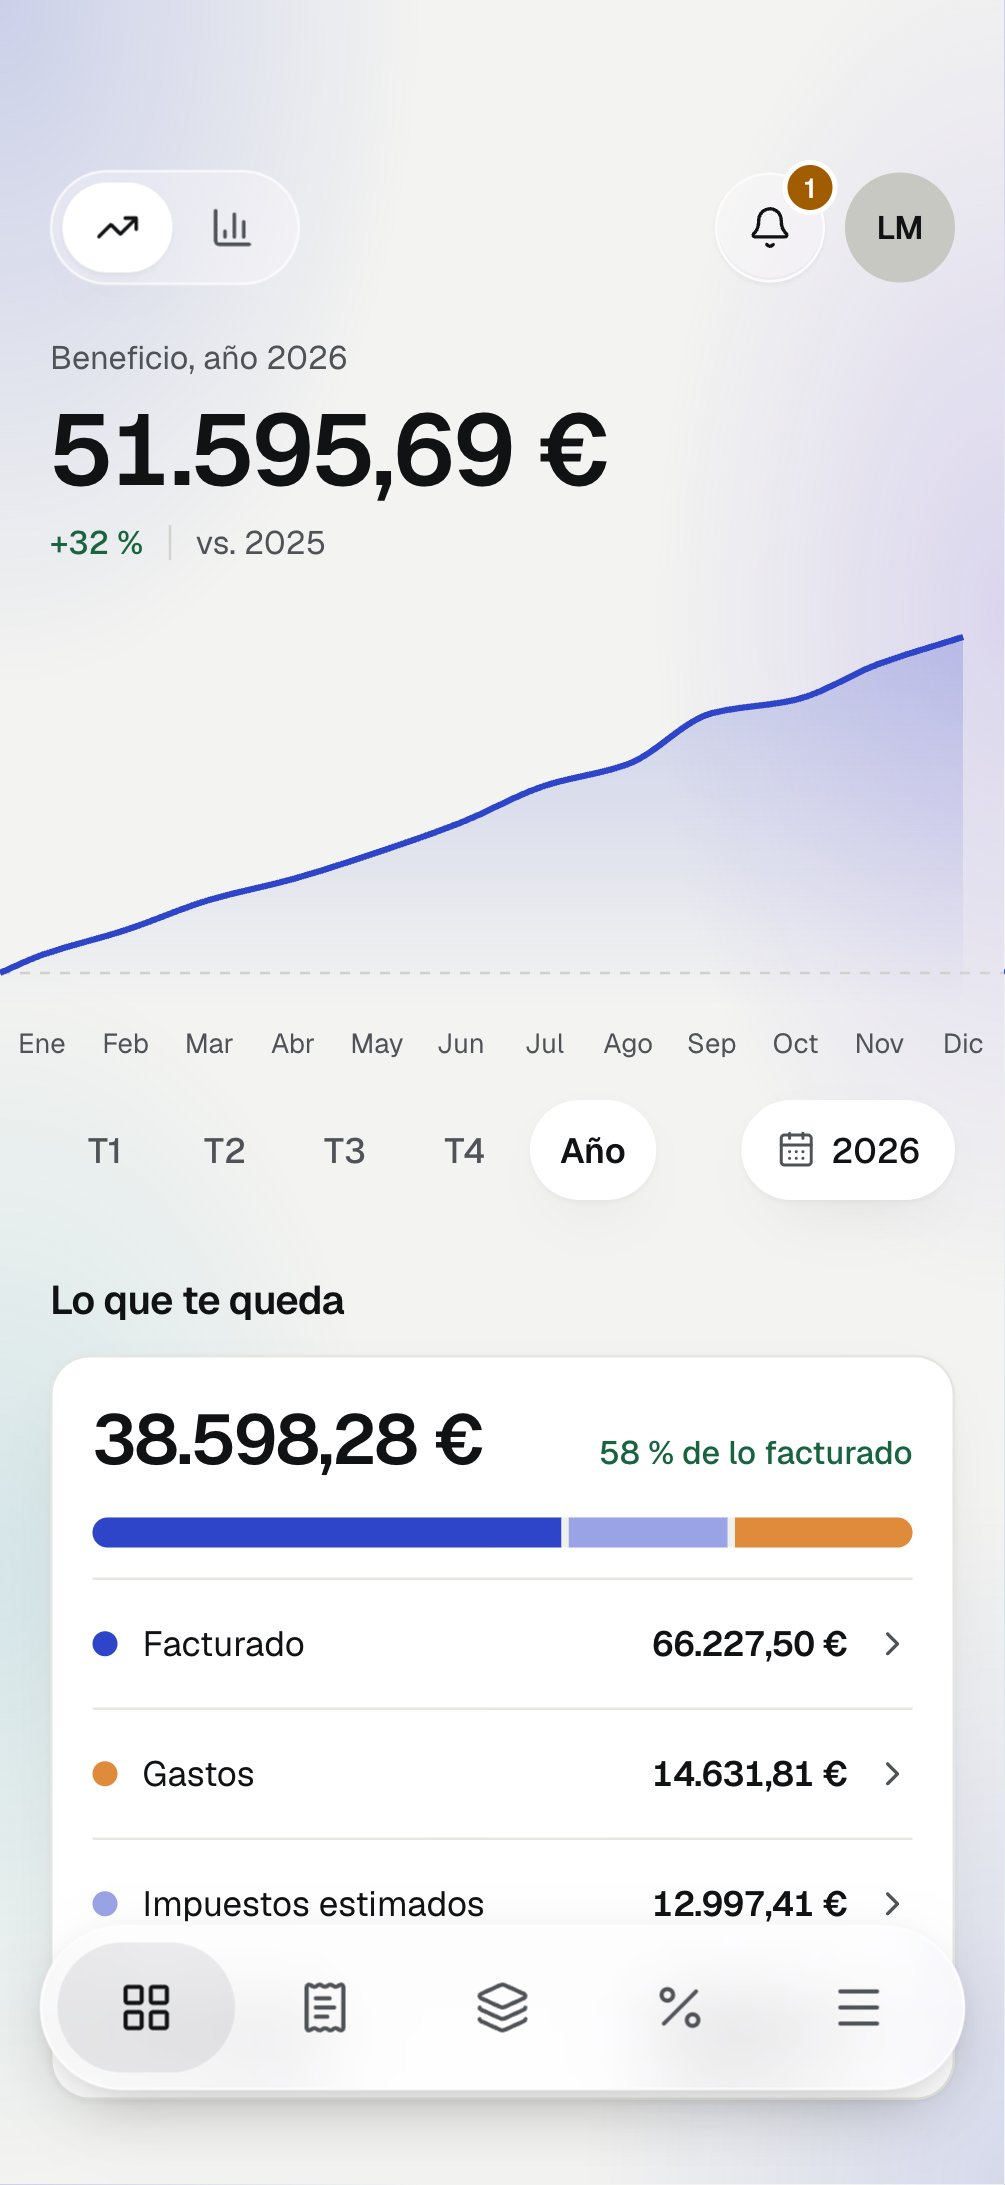
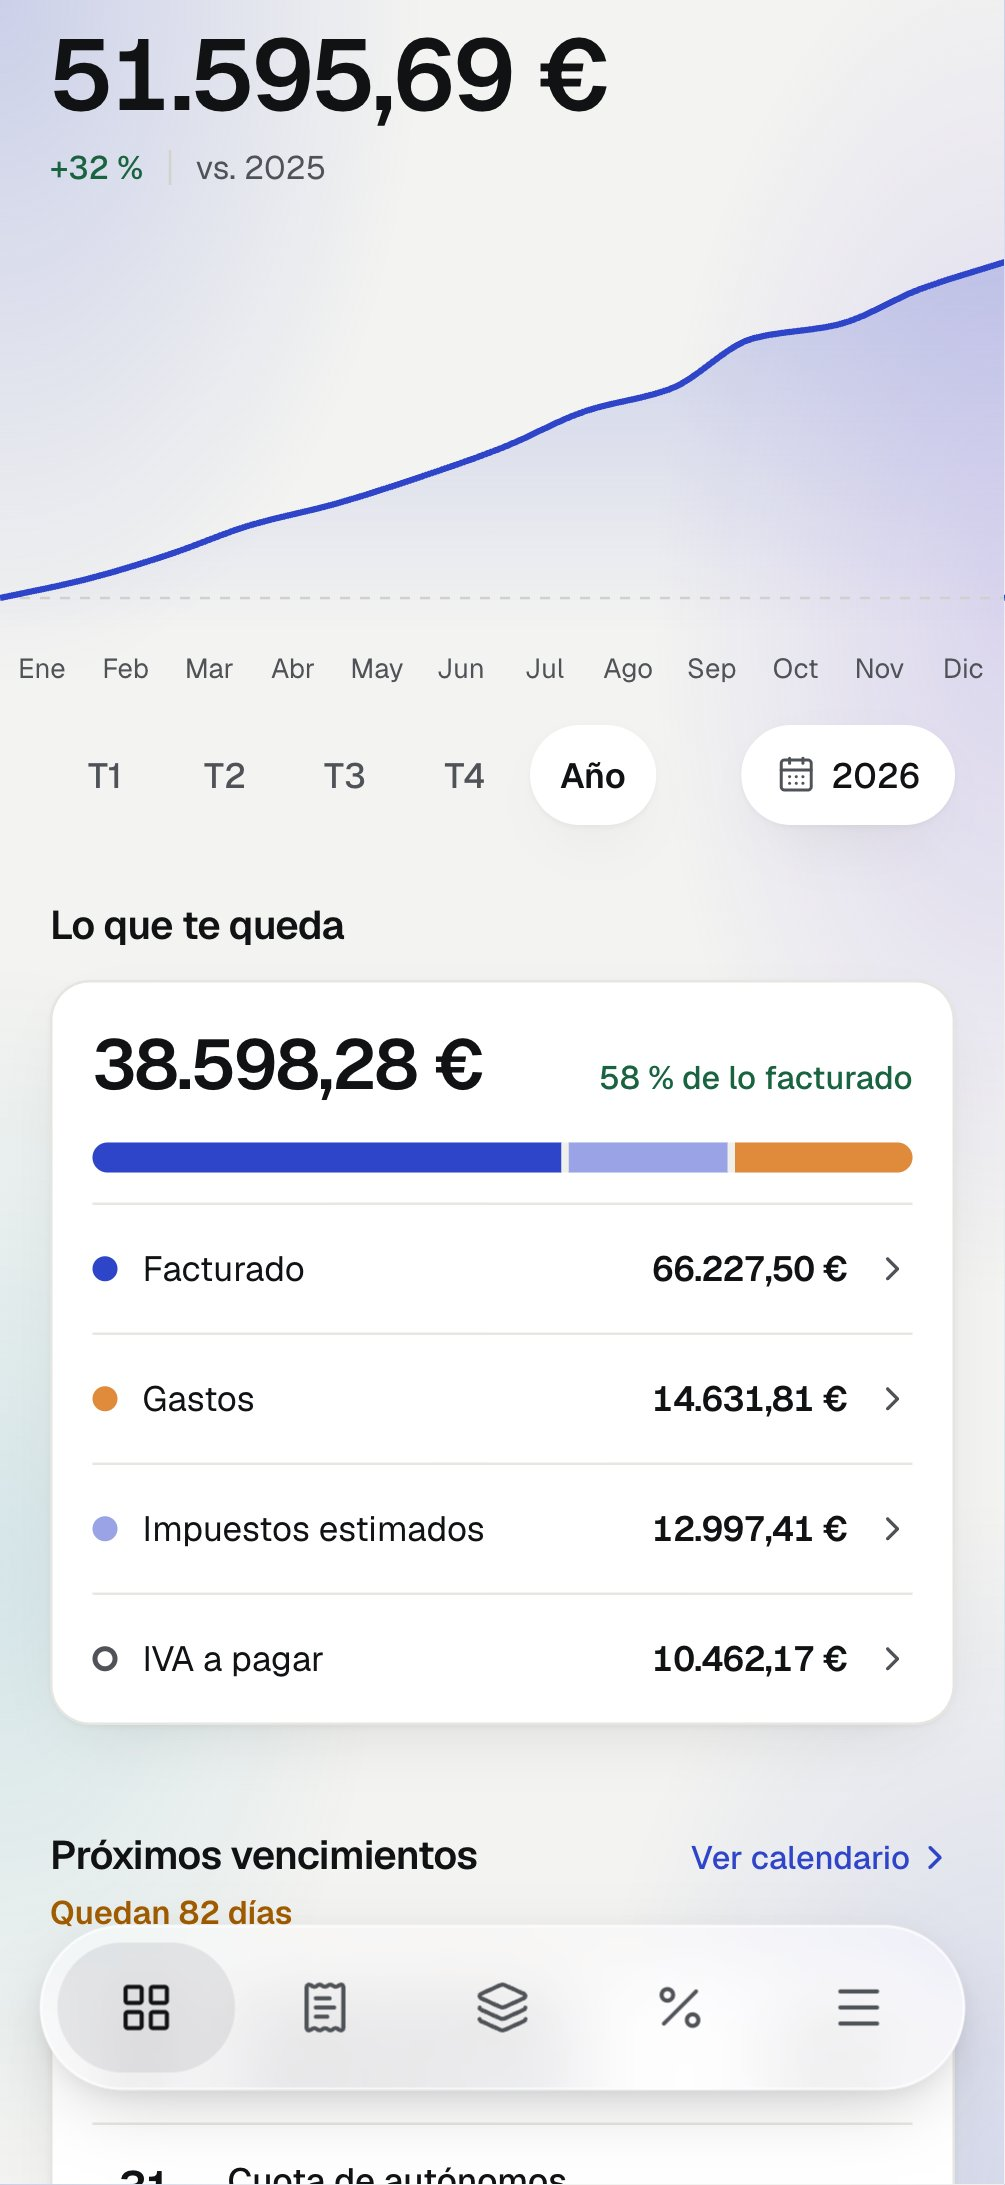
End the phone profit line on the period's right edge
Each month's point sat at the middle of its month, so a finished period
stopped half a month short of the edge while the line started on the left
one. Points now sit where each month ends, the profit added up to that day.
The landing's phone home screenshot is retaken.

diff --git a/apps/web/src/features/home/mobile-overview.tsx b/apps/web/src/features/home/mobile-overview.tsx
@@ -114,7 +114,8 @@ function PeriodChart({ data, view, selected, onSelect }: ChartProps) {
   const slots = months.map((m) => monthly[m] ?? null);
   const filled = slots.flatMap((s, i) => (s ? [i] : []));
   const lastFilled = filled.at(-1) ?? -1;
-  const center = (i: number) => (i + 0.5) / n;
+  // On the line, a month's point sits where the month ends: the profit added up to that day
+  const monthEnd = (i: number) => (i + 1) / n;
 
   // Profit adding up from the start of the period
   let running = 0;
@@ -172,7 +173,7 @@ function PeriodChart({ data, view, selected, onSelect }: ChartProps) {
             style={
               view === "bars"
                 ? { left: `calc(${(selected / n) * 100}% + 4px)`, width: `calc(${100 / n}% - 8px)` }
-                : { left: `${center(selected) * 100}%` }
+                : { left: `min(${monthEnd(selected) * 100}%, 100% - 10px)` }
             }
           />
         )}
@@ -250,10 +251,11 @@ function LineView({ totals, n, selected }: { totals: (number | null)[]; n: numbe
   const top = Math.max(1, ...values);
   const bottom = Math.min(0, ...values);
   const y = (v: number) => PAD + (1 - (v - bottom) / (top - bottom)) * (H - 2 * PAD);
-  // Starts at nothing on the period's left edge, then one point per month
+  // Starts at nothing on the period's left edge, then one point at the end of each month, so a
+  // finished period reaches the right edge
   const points: [number, number][] = [
     [0, y(0)],
-    ...totals.flatMap((t, i): [number, number][] => (t === null ? [] : [[((i + 0.5) / n) * W, y(t)]])),
+    ...totals.flatMap((t, i): [number, number][] => (t === null ? [] : [[((i + 1) / n) * W, y(t)]])),
   ];
   const line = smoothPath(points);
   const last = points.at(-1)!;
@@ -286,7 +288,11 @@ function LineView({ totals, n, selected }: { totals: (number | null)[]; n: numbe
         <div
           aria-hidden="true"
           className="absolute size-3 -translate-1/2 rounded-full bg-chart-income ring-4 ring-background"
-          style={{ left: `${((selected! + 0.5) / n) * 100}%`, top: `${(y(shown) / H) * 100}%` }}
+          // The last month ends on the screen edge: keep its dot whole
+          style={{
+            left: `min(${((selected! + 1) / n) * 100}%, 100% - 10px)`,
+            top: `${(y(shown) / H) * 100}%`,
+          }}
         />
       )}
     </>
